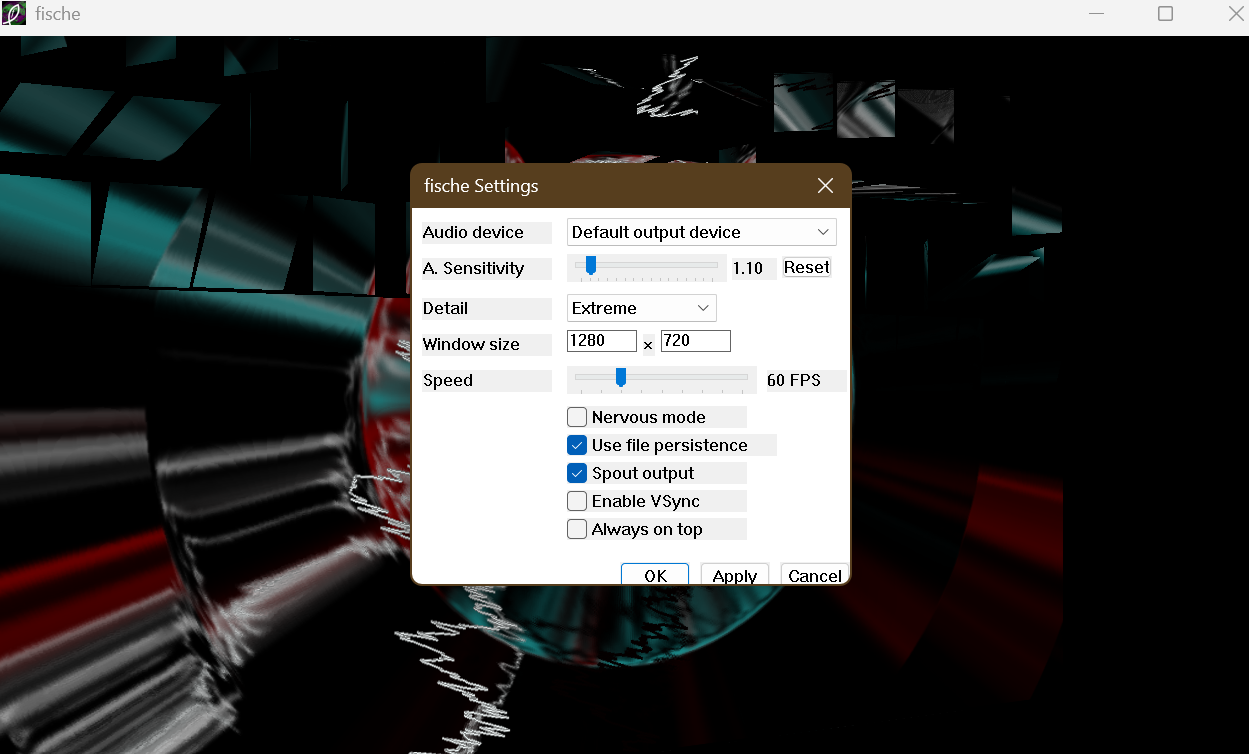
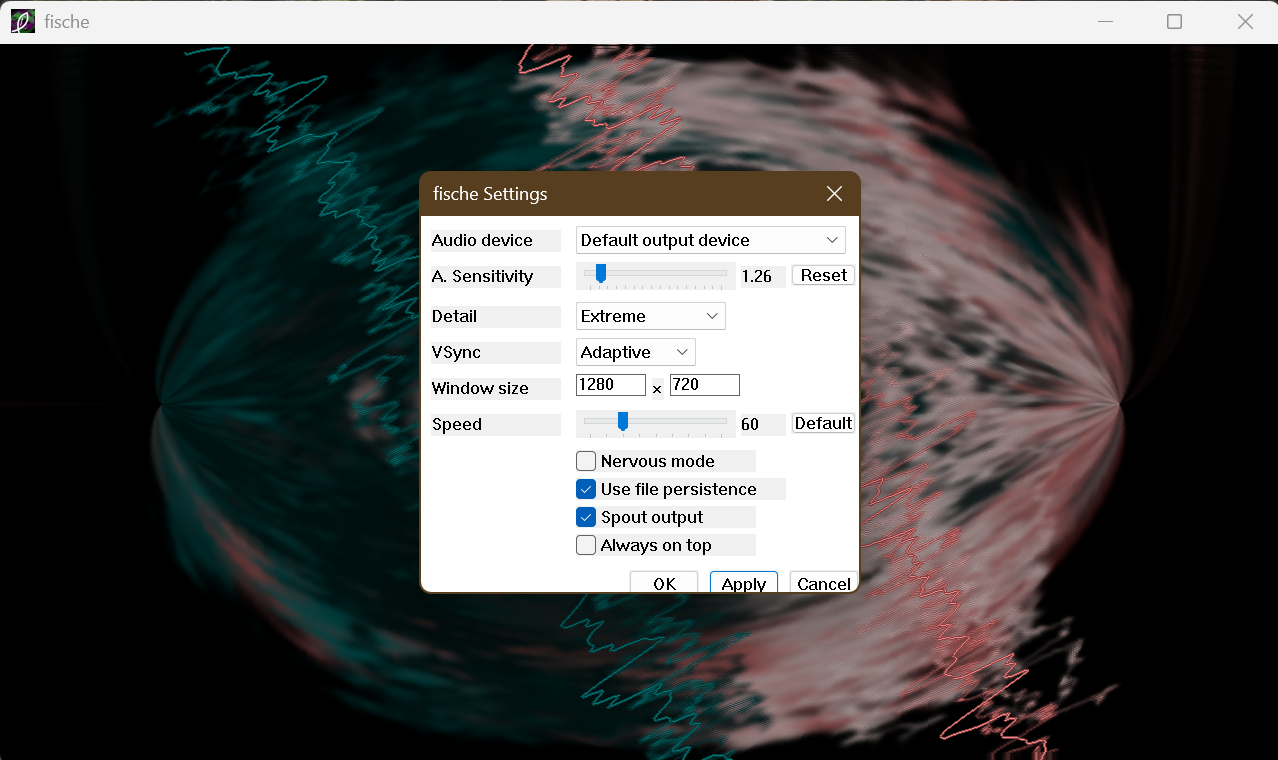
Replaced VSync checkbox with dropdown menu
Added adaptive VSync option. Replaced VSync enabled checkbox with 3 options: Off, On and Adaptive.

Changed time since refresh from 350ms to 250ms when resized

Updated README and TODO list

diff --git a/src/settings_dialog.cpp b/src/settings_dialog.cpp
@@ -25,7 +25,7 @@ constexpr int kNervousCheck = 1005;
 constexpr int kPersistenceCheck = 1006;
 constexpr int kSpoutCheck = 1007;
 constexpr int kApplyButton = 1008;
-constexpr int kVSyncCheck = 1009;
+constexpr int kVSyncCombo = 1009;
 constexpr int kSensitivitySlider = 1010;
 constexpr int kSensitivityLabel = 1011;
 constexpr int kSensitivityReset = 1012;
@@ -125,7 +125,7 @@ void apply_settings_from_controls(HWND hwnd, DialogState* state)
   state->working.nervousMode = SendMessageW(GetDlgItem(hwnd, kNervousCheck), BM_GETCHECK, 0, 0) == BST_CHECKED;
   state->working.useFilePersistence = SendMessageW(GetDlgItem(hwnd, kPersistenceCheck), BM_GETCHECK, 0, 0) == BST_CHECKED;
   state->working.spoutEnabled = SendMessageW(GetDlgItem(hwnd, kSpoutCheck), BM_GETCHECK, 0, 0) == BST_CHECKED;
-  state->working.vsyncEnabled = SendMessageW(GetDlgItem(hwnd, kVSyncCheck), BM_GETCHECK, 0, 0) == BST_CHECKED;
+  state->working.vsyncMode = std::clamp(static_cast<int>(SendMessageW(GetDlgItem(hwnd, kVSyncCombo), CB_GETCURSEL, 0, 0)), 0, 2);
   state->working.alwaysOnTop = SendMessageW(GetDlgItem(hwnd, kAlwaysOnTopCheck), BM_GETCHECK, 0, 0) == BST_CHECKED;
 
   *state->settings = state->working;
@@ -182,6 +182,14 @@ LRESULT CALLBACK dialog_proc(HWND hwnd, UINT message, WPARAM wParam, LPARAM lPar
       SendMessageW(qualityCombo, CB_SETCURSEL, std::clamp(state->working.quality, 0, 3), 0);
       y += kRowHeight + 4;
 
+      create_control(hwnd, L"STATIC", L"VSync", 0, kMargin, y + 4, kLabelWidth, 22, 0);
+      HWND vsyncCombo = create_control(hwnd, L"COMBOBOX", L"", CBS_DROPDOWNLIST, kControlLeft, y, 120, 80, kVSyncCombo);
+      SendMessageW(vsyncCombo, CB_ADDSTRING, 0, reinterpret_cast<LPARAM>(L"Off"));
+      SendMessageW(vsyncCombo, CB_ADDSTRING, 0, reinterpret_cast<LPARAM>(L"On"));
+      SendMessageW(vsyncCombo, CB_ADDSTRING, 0, reinterpret_cast<LPARAM>(L"Adaptive"));
+      SendMessageW(vsyncCombo, CB_SETCURSEL, std::clamp(state->working.vsyncMode, 0, 2), 0);
+      y += kRowHeight + 4;
+
       create_control(hwnd, L"STATIC", L"Window size", 0, kMargin, y + 4, kLabelWidth, 22, 0);
       HWND widthEdit = create_control(hwnd, L"EDIT", L"", ES_NUMBER | WS_BORDER, kControlLeft, y, 70, 22, kWidthEdit);
       create_control(hwnd, L"STATIC", L"\u00D7", 0, kControlLeft + 76, y + 4, 12, 22, 0);
@@ -214,11 +222,6 @@ LRESULT CALLBACK dialog_proc(HWND hwnd, UINT message, WPARAM wParam, LPARAM lPar
       HWND spout = create_control(hwnd, L"BUTTON", L"Spout output", BS_AUTOCHECKBOX, kControlLeft, y, 180, 22,
                                   kSpoutCheck);
       SendMessageW(spout, BM_SETCHECK, state->working.spoutEnabled ? BST_CHECKED : BST_UNCHECKED, 0);
-      y += 28;
-
-      HWND vsync = create_control(hwnd, L"BUTTON", L"Enable VSync", BS_AUTOCHECKBOX, kControlLeft, y, 180, 22,
-                                  kVSyncCheck);
-      SendMessageW(vsync, BM_SETCHECK, state->working.vsyncEnabled ? BST_CHECKED : BST_UNCHECKED, 0);
       y += 28;
 
       HWND alwaysontop = create_control(hwnd, L"BUTTON", L"Always on top", BS_AUTOCHECKBOX, kControlLeft, y, 180, 22,

diff --git a/src/app_settings.cpp b/src/app_settings.cpp
@@ -144,7 +144,12 @@ AppSettings LoadSettings()
   if (auto it = values.find("spoutsenderenabled"); it != values.end())
     settings.spoutEnabled = parse_bool(it->second, settings.spoutEnabled);
   if (auto it = values.find("vsync"); it != values.end())
-    settings.vsyncEnabled = parse_bool(it->second, settings.vsyncEnabled);
+  {
+    const std::string& v = lower(trim(it->second));
+    if (v == "on" || v == "1" || v == "true")       settings.vsyncMode = 1;
+    else if (v == "adaptive" || v == "-1")           settings.vsyncMode = 2;
+    else                                             settings.vsyncMode = 0;
+  }
   if (auto it = values.find("alwaysontop"); it != values.end())
     settings.alwaysOnTop = parse_bool(it->second, settings.alwaysOnTop);
   if (auto it = values.find("windowwidth"); it != values.end())
@@ -161,6 +166,8 @@ void SaveSettings(const AppSettings& settings)
   if (!file)
     return;
 
+  const char* vsyncStr[] = {"Off", "On", "Adaptive"};
+
   file << "[fische]\n";
   file << "Audio=" << settings.audioDevice << "\n";
   file << "AudioSensitivity=" << settings.audioSensitivity << "\n";
@@ -170,7 +177,7 @@ void SaveSettings(const AppSettings& settings)
   file << "NervousMode=" << (settings.nervousMode ? "true" : "false") << "\n";
   file << "UseFilePersistence=" << (settings.useFilePersistence ? "true" : "false") << "\n";
   file << "SpoutSenderEnabled=" << (settings.spoutEnabled ? "true" : "false") << "\n";
-  file << "VSync=" << (settings.vsyncEnabled ? "true" : "false") << "\n";
+  file << "VSync=" << vsyncStr[std::clamp(settings.vsyncMode, 0, 2)] << "\n";
   file << "AlwaysOnTop=" << (settings.alwaysOnTop ? "true" : "false") << "\n";
   file << "WindowWidth=" << std::max(settings.windowWidth, 320) << "\n";
   file << "WindowHeight=" << std::max(settings.windowHeight, 240) << "\n";

diff --git a/src/main.cpp b/src/main.cpp
@@ -80,6 +80,16 @@ double quality_scale(int quality)
   return 0.85;
 }
 
+void apply_vsync(int mode)
+{
+  switch (mode)
+  {
+    case 1:  glfwSwapInterval(1);  break;  // On
+    case 2:  glfwSwapInterval(-1); break;  // Adaptive
+    default: glfwSwapInterval(0);  break;  // Off
+  }
+}
+
 std::pair<int, int> renderer_size_from_framebuffer(int framebufferWidth, int framebufferHeight)
 {
   double scale = quality_scale(g_settings.quality);
@@ -201,7 +211,7 @@ void apply_settings(const AppSettings& settings)
   g_settings = settings;
   if (g_visualizer)
     g_visualizer->SetNervousMode(g_settings.nervousMode);
-  glfwSwapInterval(g_settings.vsyncEnabled ? 1 : 0); // glfwSwapInterval(g_settings.fpsLimit <= 0 ? 1 : 0);
+  apply_vsync(g_settings.vsyncMode);
   g_audioCapture.SetSensitivity(g_settings.audioSensitivity);
   g_alwaysOnTop = g_settings.alwaysOnTop ? true : false;
   HWND hwnd = glfwGetWin32Window(g_window);
@@ -528,7 +538,7 @@ void maybe_handle_resize()
   if (g_lastResizeChange.time_since_epoch().count() == 0)
     g_lastResizeChange = now;
 
-  if (now - g_lastResizeChange > std::chrono::milliseconds(350))
+  if (now - g_lastResizeChange > std::chrono::milliseconds(250))
   {
     recreate_visualizer();
     g_lastResizeChange = {};
@@ -618,7 +628,7 @@ int main(int, char**)
     set_always_on_top(true);
   
   init_gl_font();
-  glfwSwapInterval(g_settings.vsyncEnabled ? 1 : 0); // glfwSwapInterval(g_settings.fpsLimit <= 0 ? 1 : 0);
+  apply_vsync(g_settings.vsyncMode);
 
   glEnable(GL_BLEND);
   glBlendFunc(GL_SRC_ALPHA, GL_ONE_MINUS_SRC_ALPHA);

diff --git a/src/app_settings.h b/src/app_settings.h
@@ -12,7 +12,7 @@ struct AppSettings
   bool nervousMode = false;
   bool useFilePersistence = false;
   bool spoutEnabled = false;
-  bool vsyncEnabled = false;
+  int vsyncMode = 0; // 0 = Off, 1 = On, 2 = Adaptive
   float audioSensitivity = 1.0f;
   int windowWidth = 1280;
   int windowHeight = 720;

diff --git a/README.md b/README.md
@@ -117,7 +117,7 @@ FPSLimit=60
 NervousMode=false
 UseFilePersistence=false
 SpoutSenderEnabled=false
-VSync=false
+VSync=Off
 AlwaysOnTop=false
 WindowWidth=1280
 WindowHeight=720
@@ -132,7 +132,7 @@ WindowHeight=720
 | `NervousMode` | true / false | Rapid animation mode |
 | `UseFilePersistence` | true / false | Cache vector fields to `vectors/` folder |
 | `SpoutSenderEnabled` | true / false | Enable Spout texture sharing |
-| `VSync` | true / false | Enable VSync (`glfwSwapInterval`) |
+| `VSync` | Off / On / Adaptive | VSync mode; Adaptive mode uses `glfwSwapInterval(-1)`, which reduces tearing without hard locking the frame rate |
 | `AlwaysOnTop` | true / false | Keep the visual window above all other windows |
 | `WindowWidth` / `WindowHeight` | integer | Last window size; restored on next launch |
 

diff --git a/TODO.md b/TODO.md
@@ -1,7 +1,7 @@
 # For version 2.2:
 - [ ] Fix aspect ratio for portrait/tall screens
 - [x] Add `Default` button to Speed/FPS to settings dialog/UI.
-- [ ] Implement adaptive VSync; replaces `Enable VSync` checkbox with a dropdown and 3 options: On, Off and Adaptive.
+- [x] Implement adaptive VSync; replaces `Enable VSync` checkbox with a dropdown and 3 options: On, Off and Adaptive.
 
 # For version 2.3:
 - [ ] Implement show/hide window/render feature
